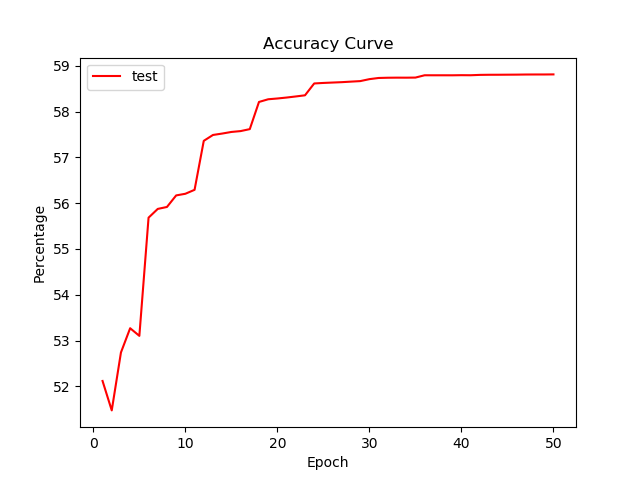
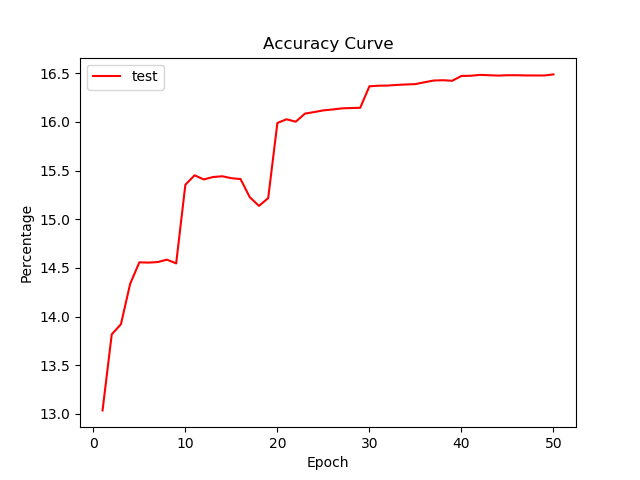
added largest model

diff --git a/train.py b/train.py
@@ -80,22 +80,22 @@ def test(model, device, test_loader):
 
 
 # Word Vocab
-# SEQUENCE_LENGTH = 10
+SEQUENCE_LENGTH = 8
+BATCH_SIZE = 256
+FEATURE_SIZE = 650
+TEST_BATCH_SIZE = 256
+EPOCHS = 50
+LEARNING_RATE = 0.002
+WEIGHT_DECAY = 0.0005
+
+# Char Vocab
+# SEQUENCE_LENGTH = 60
 # BATCH_SIZE = 256
-# FEATURE_SIZE = 300
+# FEATURE_SIZE = 512
 # TEST_BATCH_SIZE = 256
 # EPOCHS = 50
 # LEARNING_RATE = 0.02
 # WEIGHT_DECAY = 0.0005
-
-# Char Vocab
-SEQUENCE_LENGTH = 60
-BATCH_SIZE = 256
-FEATURE_SIZE = 512
-TEST_BATCH_SIZE = 256
-EPOCHS = 50
-LEARNING_RATE = 0.02
-WEIGHT_DECAY = 0.0005
 
 USE_CUDA = True
 PRINT_INTERVAL = 10
@@ -110,8 +110,10 @@ GRAPH_PATH = DIR_PATH + 'graphs/'
 if not os.path.exists(GRAPH_PATH):
     os.makedirs(GRAPH_PATH)
 
-data_train = prep.ContinuousDataset(prep.PROCESSED_DATA_PATH + 'train.pkl', SEQUENCE_LENGTH, BATCH_SIZE)
-data_test = prep.ContinuousDataset(prep.PROCESSED_DATA_PATH + 'test.pkl', SEQUENCE_LENGTH, TEST_BATCH_SIZE)
+char_vocab = False
+
+data_train = prep.ContinuousDataset(prep.PROCESSED_DATA_PATH + 'train.pkl', SEQUENCE_LENGTH, BATCH_SIZE, char_vocab)
+data_test = prep.ContinuousDataset(prep.PROCESSED_DATA_PATH + 'test.pkl', SEQUENCE_LENGTH, TEST_BATCH_SIZE, char_vocab)
 vocab = data_train.vocab
 print('vocab size:', len(vocab))
 
@@ -139,7 +141,7 @@ if start_epoch < EPOCHS:
 
     try:
         for epoch in range(start_epoch, EPOCHS + 1):
-            lr = LEARNING_RATE * np.power(0.25, (int(epoch / 6)))
+            lr = LEARNING_RATE * np.power(0.25, (int(epoch / 10)))
             train_loss = train(model, device, train_loader, lr, epoch, PRINT_INTERVAL)
             test_loss, test_accuracy = test(model, device, test_loader)
             train_losses.append((epoch, train_loss))
@@ -148,7 +150,6 @@ if start_epoch < EPOCHS:
             utils.write_log(LOG_PATH, (train_losses, test_losses, test_accuracies))
             model.save_best_model(test_accuracy, BEST_MODEL_PATH + '%05f.pt' % test_accuracy)
             plot.plot_graphs(train_losses, test_losses, test_accuracies, GRAPH_PATH)
-            print('train loss:', train_losses[:2])
 
     except KeyboardInterrupt as ke:
         print('Interrupted')

diff --git a/generate.py b/generate.py
@@ -17,8 +17,6 @@ import models
 
 import sys
 
-import t9_wrapper.GRUModel as GRUModel
-
 
 BEAM_WIDTH = 10
 
@@ -37,7 +35,7 @@ def predict_completion(model, data, hidden, vocab):
             next_char = vocab.idx_to_char(sample.item())
             completion += next_char
 
-            if len(completion) > 2 and next_char == stop_char:
+            if len(completion) > 1 and next_char == stop_char:
                 return completion
 
             output, hidden = model.inference(sample, hidden)
@@ -128,9 +126,9 @@ def predict_next_word(model, device, seed_words, vocab, n=8):
 
 def main():
 
-    model_path = './best_models/word_large'
+    model_path = './best_models/char_large'
     feature_size = 512
-    char_vocab = False
+    char_vocab = True
 
     if char_vocab:
         vocab = prep.CharVocab(prep.PROCESSED_DATA_PATH + 'train.pkl')
@@ -163,7 +161,7 @@ def main():
             print('completions\t', completions)
 
     # seed_words = 'It\'s such a nice day today '
-    # sequence_length = 10
+    # sequence_length = 50
     #
     # generated_sentence = predict_sequence(model, device, seed_words, sequence_length, vocab, 'max')
     # print('generated with max\t', generated_sentence)

diff --git a/models.py b/models.py
@@ -4,7 +4,7 @@ import torch.nn.functional as F
 import utils
 
 
-TEMPERATURE = 1.5
+TEMPERATURE = 1
 
 
 class ForwardGRUNet(nn.Module):
@@ -13,7 +13,7 @@ class ForwardGRUNet(nn.Module):
         self.vocab_size = vocab_size
         self.feature_size = feature_size
         self.encoder = nn.Embedding(self.vocab_size, self.feature_size)
-        self.gru = nn.GRU(self.feature_size, self.feature_size, num_layers=2, batch_first=True)
+        self.gru = nn.GRU(self.feature_size, self.feature_size, num_layers=3, batch_first=True)
         self.decoder = nn.Linear(self.feature_size, self.vocab_size)
 
         # This shares the encoder and decoder weights

diff --git a/preprocess.py b/preprocess.py
@@ -195,7 +195,7 @@ class ContinuousDataset(torch.utils.data.Dataset):
 
 DATA_PATH = './data/movie/'
 PROCESSED_DATA_PATH = './data/movie/'
-UNK_THRESHOLD = 5
+UNK_THRESHOLD = 4
 
 
 def main():

diff --git a/README.md b/README.md
@@ -35,3 +35,5 @@ __best test accuracy dropout(0.1): 15.87%__
 number of chars: 16896309
 
 char vocab_size: 92
+
+__best test accuracy: 58.81%__
